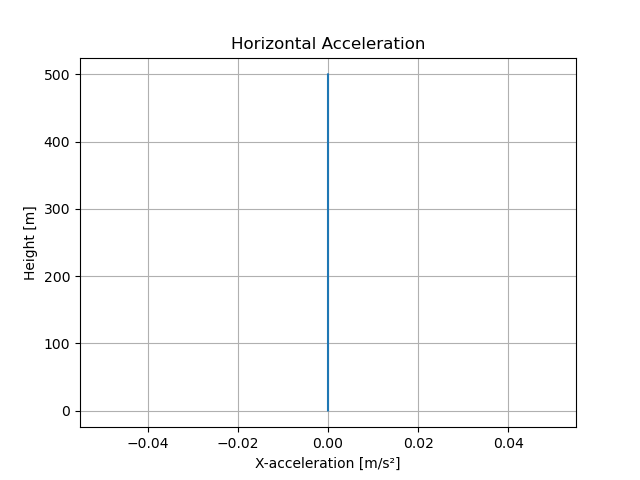
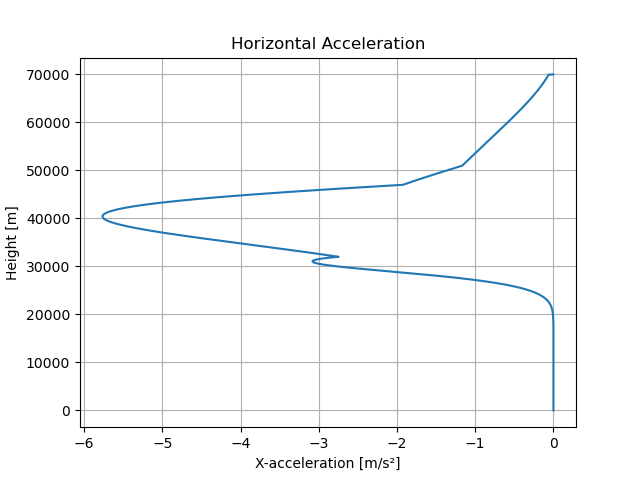
merge master in  dev_flo, frontend

diff --git a/src/IO/Input.py b/src/IO/Input.py
@@ -6,71 +6,31 @@ from Environment.DragManager import DragManager
 import numpy as np
 
 
-class Input:
-    x0 = []
-    t = None
-    additional_args = {}  # hier kann man hinzufuegen, falls in odeint extra Parameter wie 'col_deriv' gebraucht werden
-    rocket_manager = RocketManager()
-    rocket_manager.mass = 11
-    chute_manager = ChuteManager()
-    chutes = [
-        Chute(
-            name="Chute1",
-            A_max=0.1576,
-            cw=1.5,
-            openingHeight=500,
-            cutHeight=-1,
-            openingDelay=4,
-            openingDuration=0.25),
-
-        # Chute(
-        #     name="Chute2",
-        #     A_max=4.525,
-        #     cw=2.2,
-        #     openingHeight=300,
-        #     cutHeight=-1,
-        #     openingDelay=0,
-        #     openingDuration=2)
-    ]
-    drag_manager = None
-
-    def retrieve_input(self):
-        """
-        assigns x0, t, and mass to the class
-        adds all chutes to classes' chute_manager
-        """
-        for c in self.chutes:
-            self.chute_manager.addChute(c)
-        self.drag_manager = DragManager(self.rocket_manager, self.chute_manager)
-        self.x0 = [0, 500, 0, 0]  # [pos_x, pos_y, vel_x, vel_y] StartingVector
-        self.t = np.linspace(0, 1250, 100000)  # TimeVector
-
 # class Input:
 #     x0 = []
 #     t = None
 #     additional_args = {}  # hier kann man hinzufuegen, falls in odeint extra Parameter wie 'col_deriv' gebraucht werden
 #     rocket_manager = RocketManager()
-#     rocket_manager.mass = 90
+#     rocket_manager.mass = 11
 #     chute_manager = ChuteManager()
 #     chutes = [
-#
 #         Chute(
 #             name="Chute1",
-#             A_max=6.5967,
-#             cw=0.3,
-#             openingHeight=70000,
-#             cutHeight=3000,
-#             openingDelay=2,
+#             A_max=0.1576,
+#             cw=1.5,
+#             openingHeight=500,
+#             cutHeight=-1,
+#             openingDelay=4,
 #             openingDuration=0.25),
 #
 #         Chute(
 #             name="Chute2",
-#             A_max=25.06,
-#             cw=3.007,
-#             openingHeight=3000,
+#             A_max=4.525,
+#             cw=2.2,
+#             openingHeight=300,
 #             cutHeight=-1,
-#             openingDelay=1,
-#             openingDuration=0.25)
+#             openingDelay=0,
+#             openingDuration=2)
 #     ]
 #     drag_manager = None
 #
@@ -82,5 +42,45 @@ class Input:
 #         for c in self.chutes:
 #             self.chute_manager.addChute(c)
 #         self.drag_manager = DragManager(self.rocket_manager, self.chute_manager)
-#         self.x0 = [0, 70000, 230, 0]  # [pos_x, pos_y, vel_x, vel_y] StartingVector
+#         self.x0 = [0, 500, 0, 0]  # [pos_x, pos_y, vel_x, vel_y] StartingVector
 #         self.t = np.linspace(0, 1250, 100000)  # TimeVector
+
+class Input:
+    x0 = []
+    t = None
+    additional_args = {}  # hier kann man hinzufuegen, falls in odeint extra Parameter wie 'col_deriv' gebraucht werden
+    rocket_manager = RocketManager()
+    rocket_manager.mass = 90
+    chute_manager = ChuteManager()
+    chutes = [
+
+        Chute(
+            name="Chute1",
+            A_max=6.5967,
+            cw=0.3,
+            openingHeight=70000,
+            cutHeight=3000,
+            openingDelay=2,
+            openingDuration=0.25),
+
+        Chute(
+            name="Chute2",
+            A_max=25.06,
+            cw=3.007,
+            openingHeight=3000,
+            cutHeight=-1,
+            openingDelay=1,
+            openingDuration=0.25)
+    ]
+    drag_manager = None
+
+    def retrieve_input(self):
+        """
+        assigns x0, t, and mass to the class
+        adds all chutes to classes' chute_manager
+        """
+        for c in self.chutes:
+            self.chute_manager.addChute(c)
+        self.drag_manager = DragManager(self.rocket_manager, self.chute_manager)
+        self.x0 = [0, 70000, 230, 0]  # [pos_x, pos_y, vel_x, vel_y] StartingVector
+        self.t = np.linspace(0, 1250, 100000)  # TimeVector

diff --git a/src/Environment/RocketManager.py b/src/Environment/RocketManager.py
@@ -1,6 +1,34 @@
 from Util.Interpolator import Interpolator
 from math import pi
 
+# class RocketManager:
+#
+#     def __init__(self):
+#         self.mass = 11
+#         self.area = 0.120 ** 2 * pi
+#         self.cw = {0.1: 0.4196,
+#                    0.25: 0.3711,
+#                    0.5: 0.3396,
+#                    0.7: 0.326,
+#                    0.8: 0.3223,
+#                    0.9: 0.3767,
+#                    1: 0.5254,
+#                    1.1: 0.5618,
+#                    1.2: 0.5532,
+#                    1.3: 0.5323,
+#                    1.4: 0.5149,
+#                    1.5: 0.4964,
+#                    1.75: 0.4499,
+#                    2: 0.4051,
+#                    2.5: 0.3373,
+#                    3: 0.3949,
+#                    3.5: 0.3228,
+#                    4: 0.2905,
+#                    4.5: 0.2685}
+#
+#         # just an example dict. implement file-reader later
+
+
 class RocketManager:
 
     def __init__(self):
@@ -27,6 +55,8 @@ class RocketManager:
                    4.5:0.2685}
 
         # just an example dict. implement file-reader later
+
+
 
     def getCWA(self, mach):
         return self.area * Interpolator.getInterpolatedValue(self.cw, mach)
